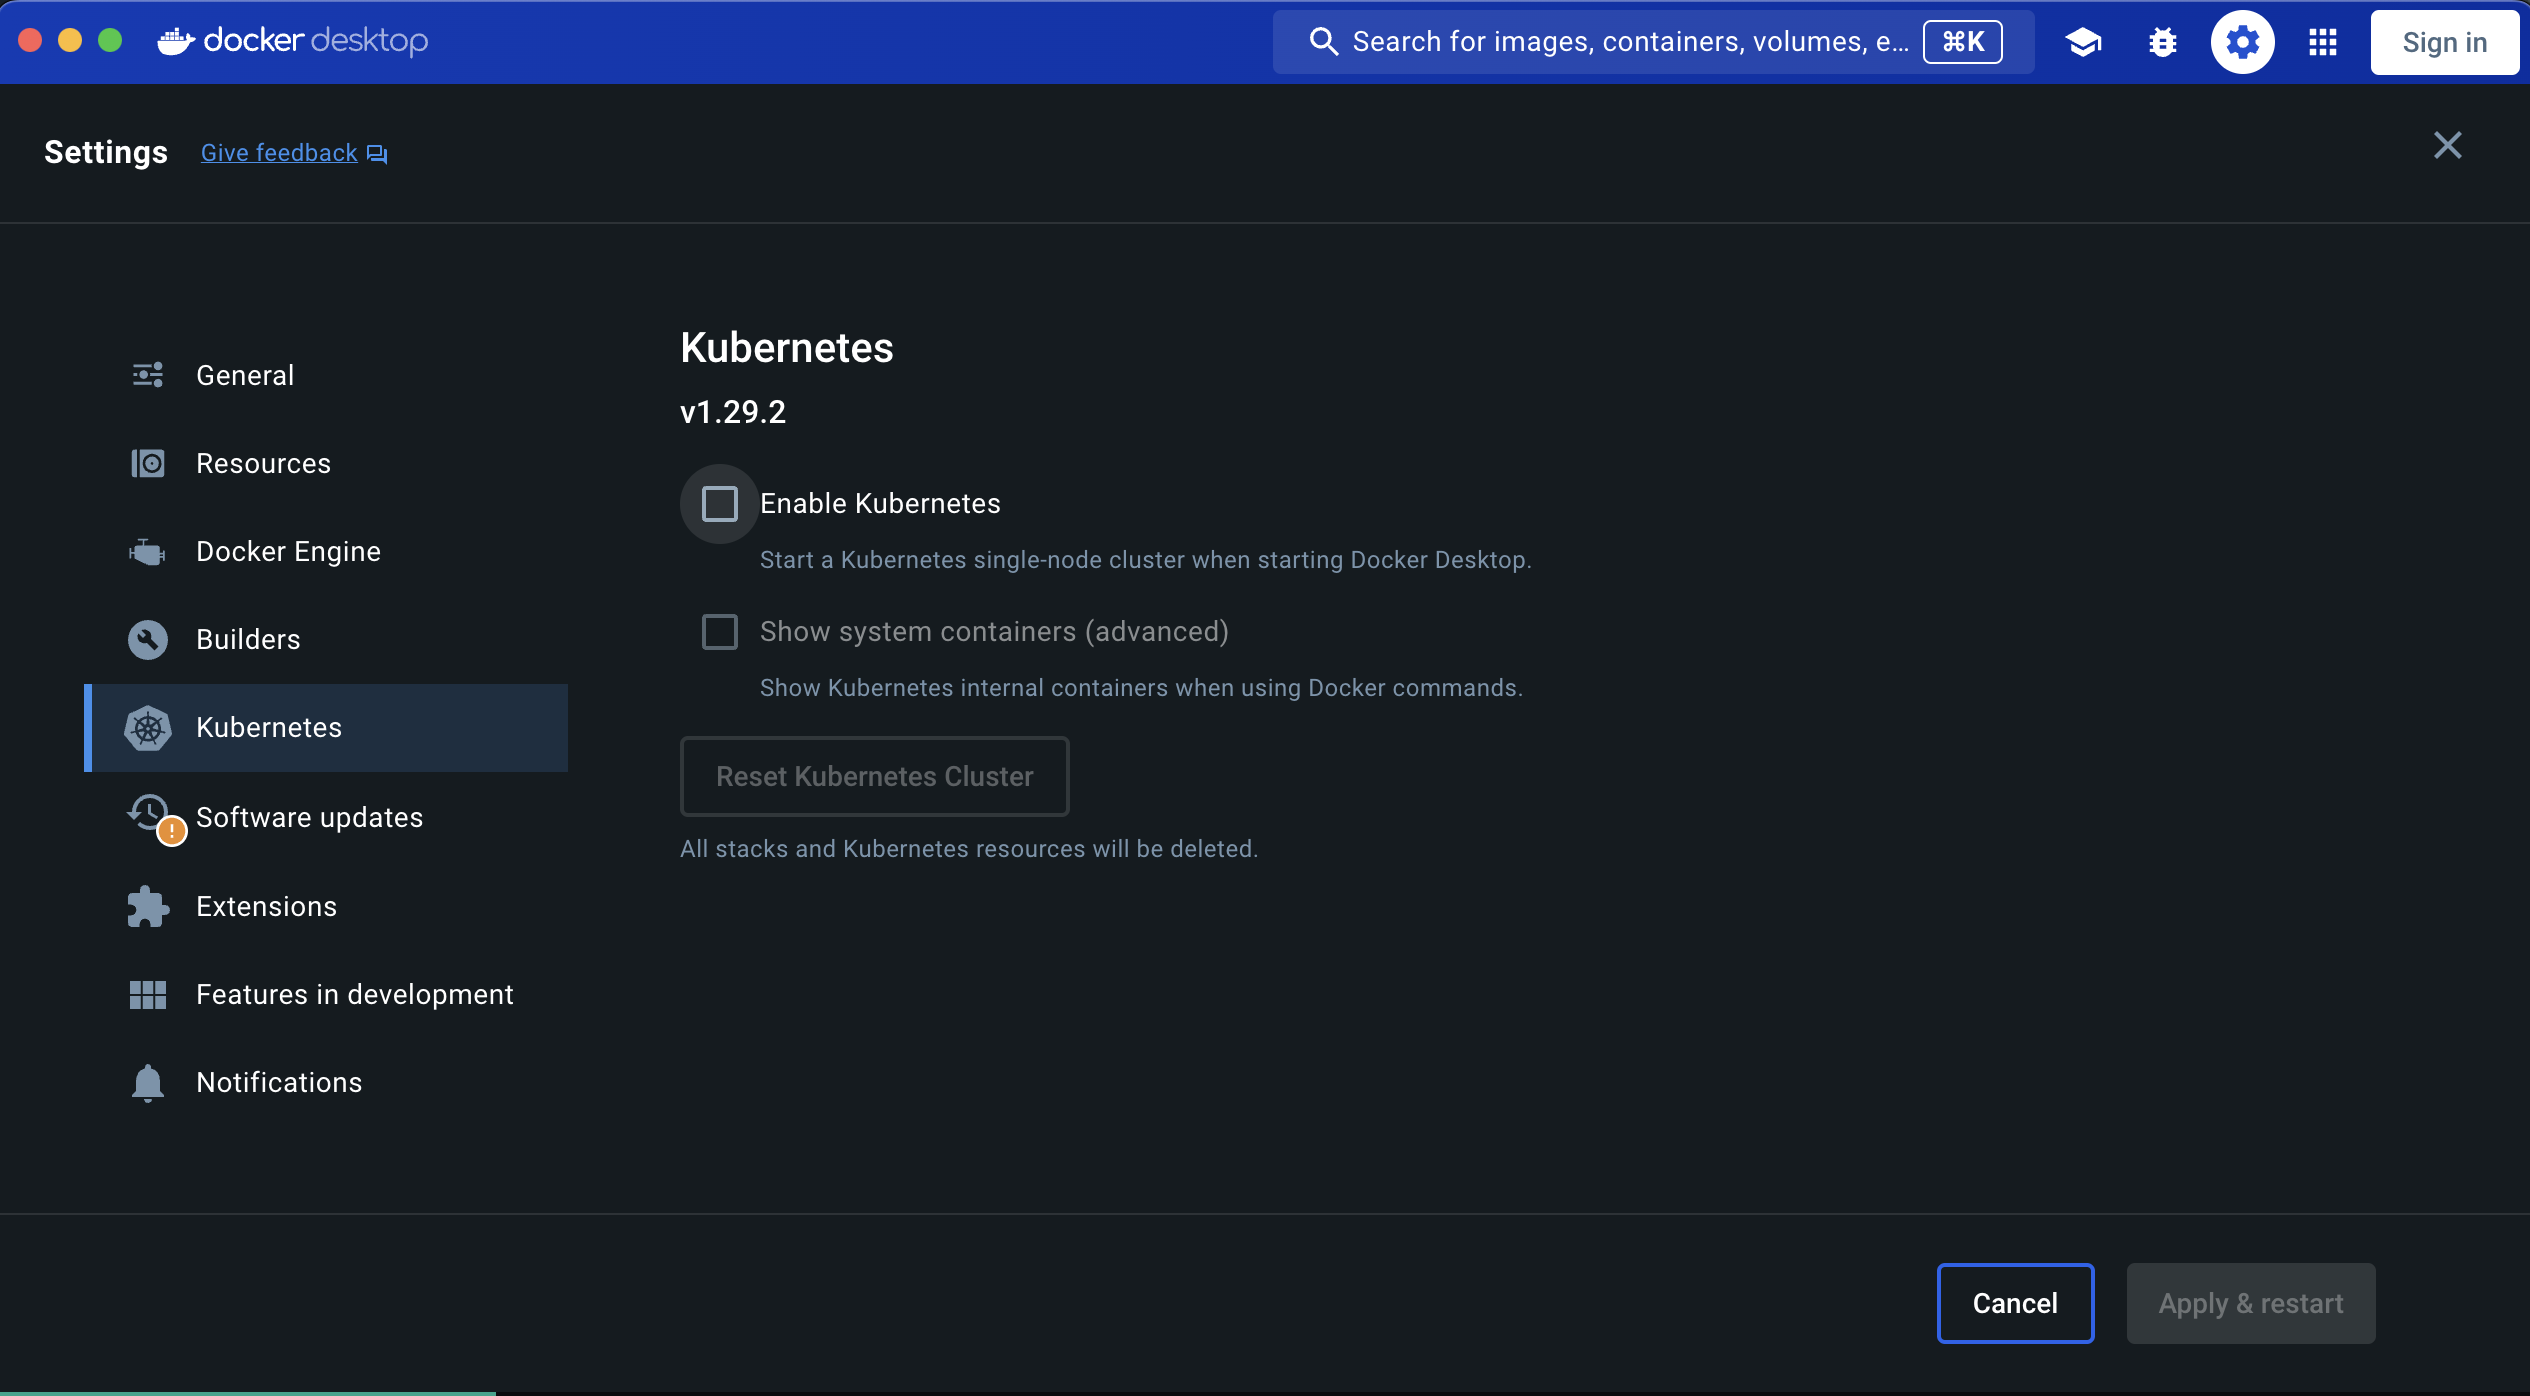
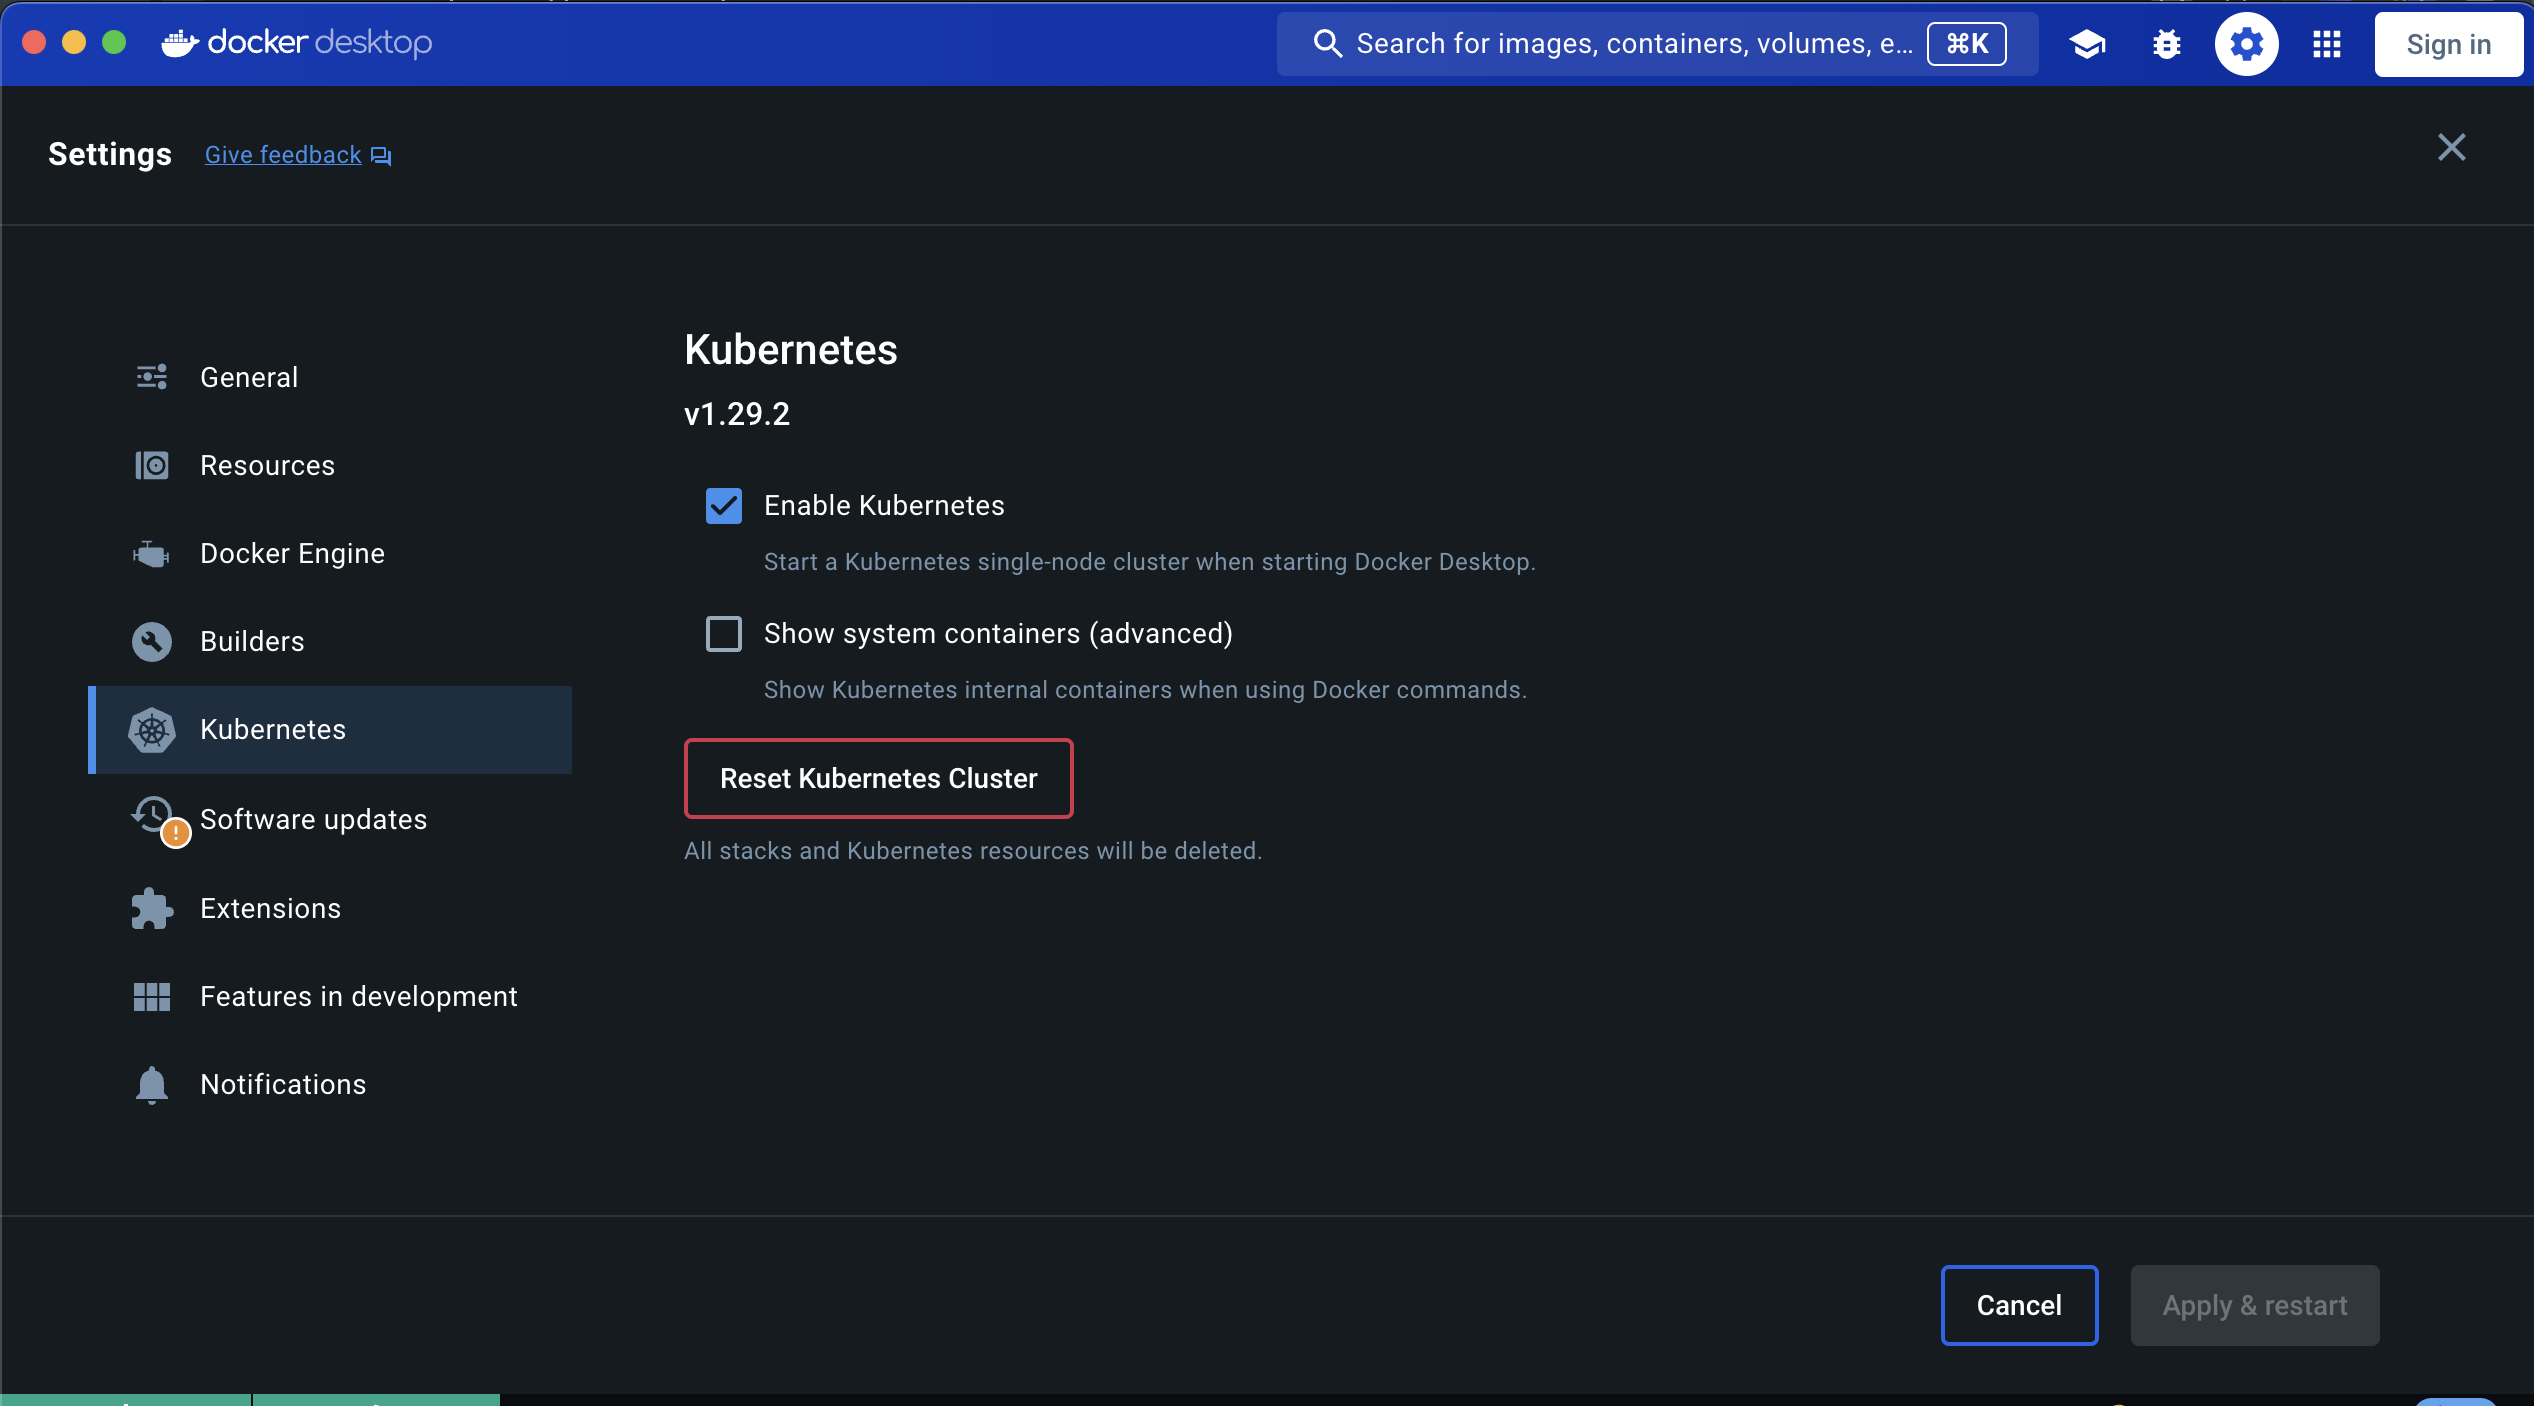
fixed disable to enable in docker k8s

diff --git a/main/guides/orchestration/dapp-orchestration-basics/installation/index.md b/main/guides/orchestration/dapp-orchestration-basics/installation/index.md
@@ -9,7 +9,7 @@ Here, we will walk through installing the Orchestration-Basics demo project onto
     - [Overriding the Chain Registry for use with `agoric-sdk/multichain-testing`](#overriding-the-chain-registry-for-use-with-agoric-sdkmultichain-testing)
   - [Multichain-Testing Makefile Helpers](#multichain-testing-makefile-helpers)
   - [Troubleshooting Docker](#troubleshooting-docker)
-    - [Disable Kubernetes](#disable-kubernetes)
+    - [Enabling Kubernetes](#enabling-kubernetes)
     - [Increasing resources allocated to docker](#increasing-resources-allocated-to-docker)
   - [Adding a New Address](#adding-a-new-address)
   - [Funding the Account](#funding-the-account)
@@ -112,8 +112,9 @@ make teardown ; make stop; make stop-forward; make clean; make; make port-forwar
 ## Troubleshooting Docker
 During setting up the environment, you may run into a few issues with docker. Here are two common setup requirements.
 
-### Disable Kubernetes
-Inside of "settings", navigate to the "kubernetes" section. Here, you want to ensure that you deselect the "Enable Kubernetes" checkbox
+### Enabling Kubernetes
+Inside of "settings", navigate to the "kubernetes" section. Here, you want to ensure that you select the "Enable Kubernetes" checkbox. You will have to restart docker to make these changes take effect. This is something to keep this in mind if you have any containers that are currently running.
+
 <img src="../../assets/docker-kube.png" width="100%" />
 
 ### Increasing resources allocated to docker
